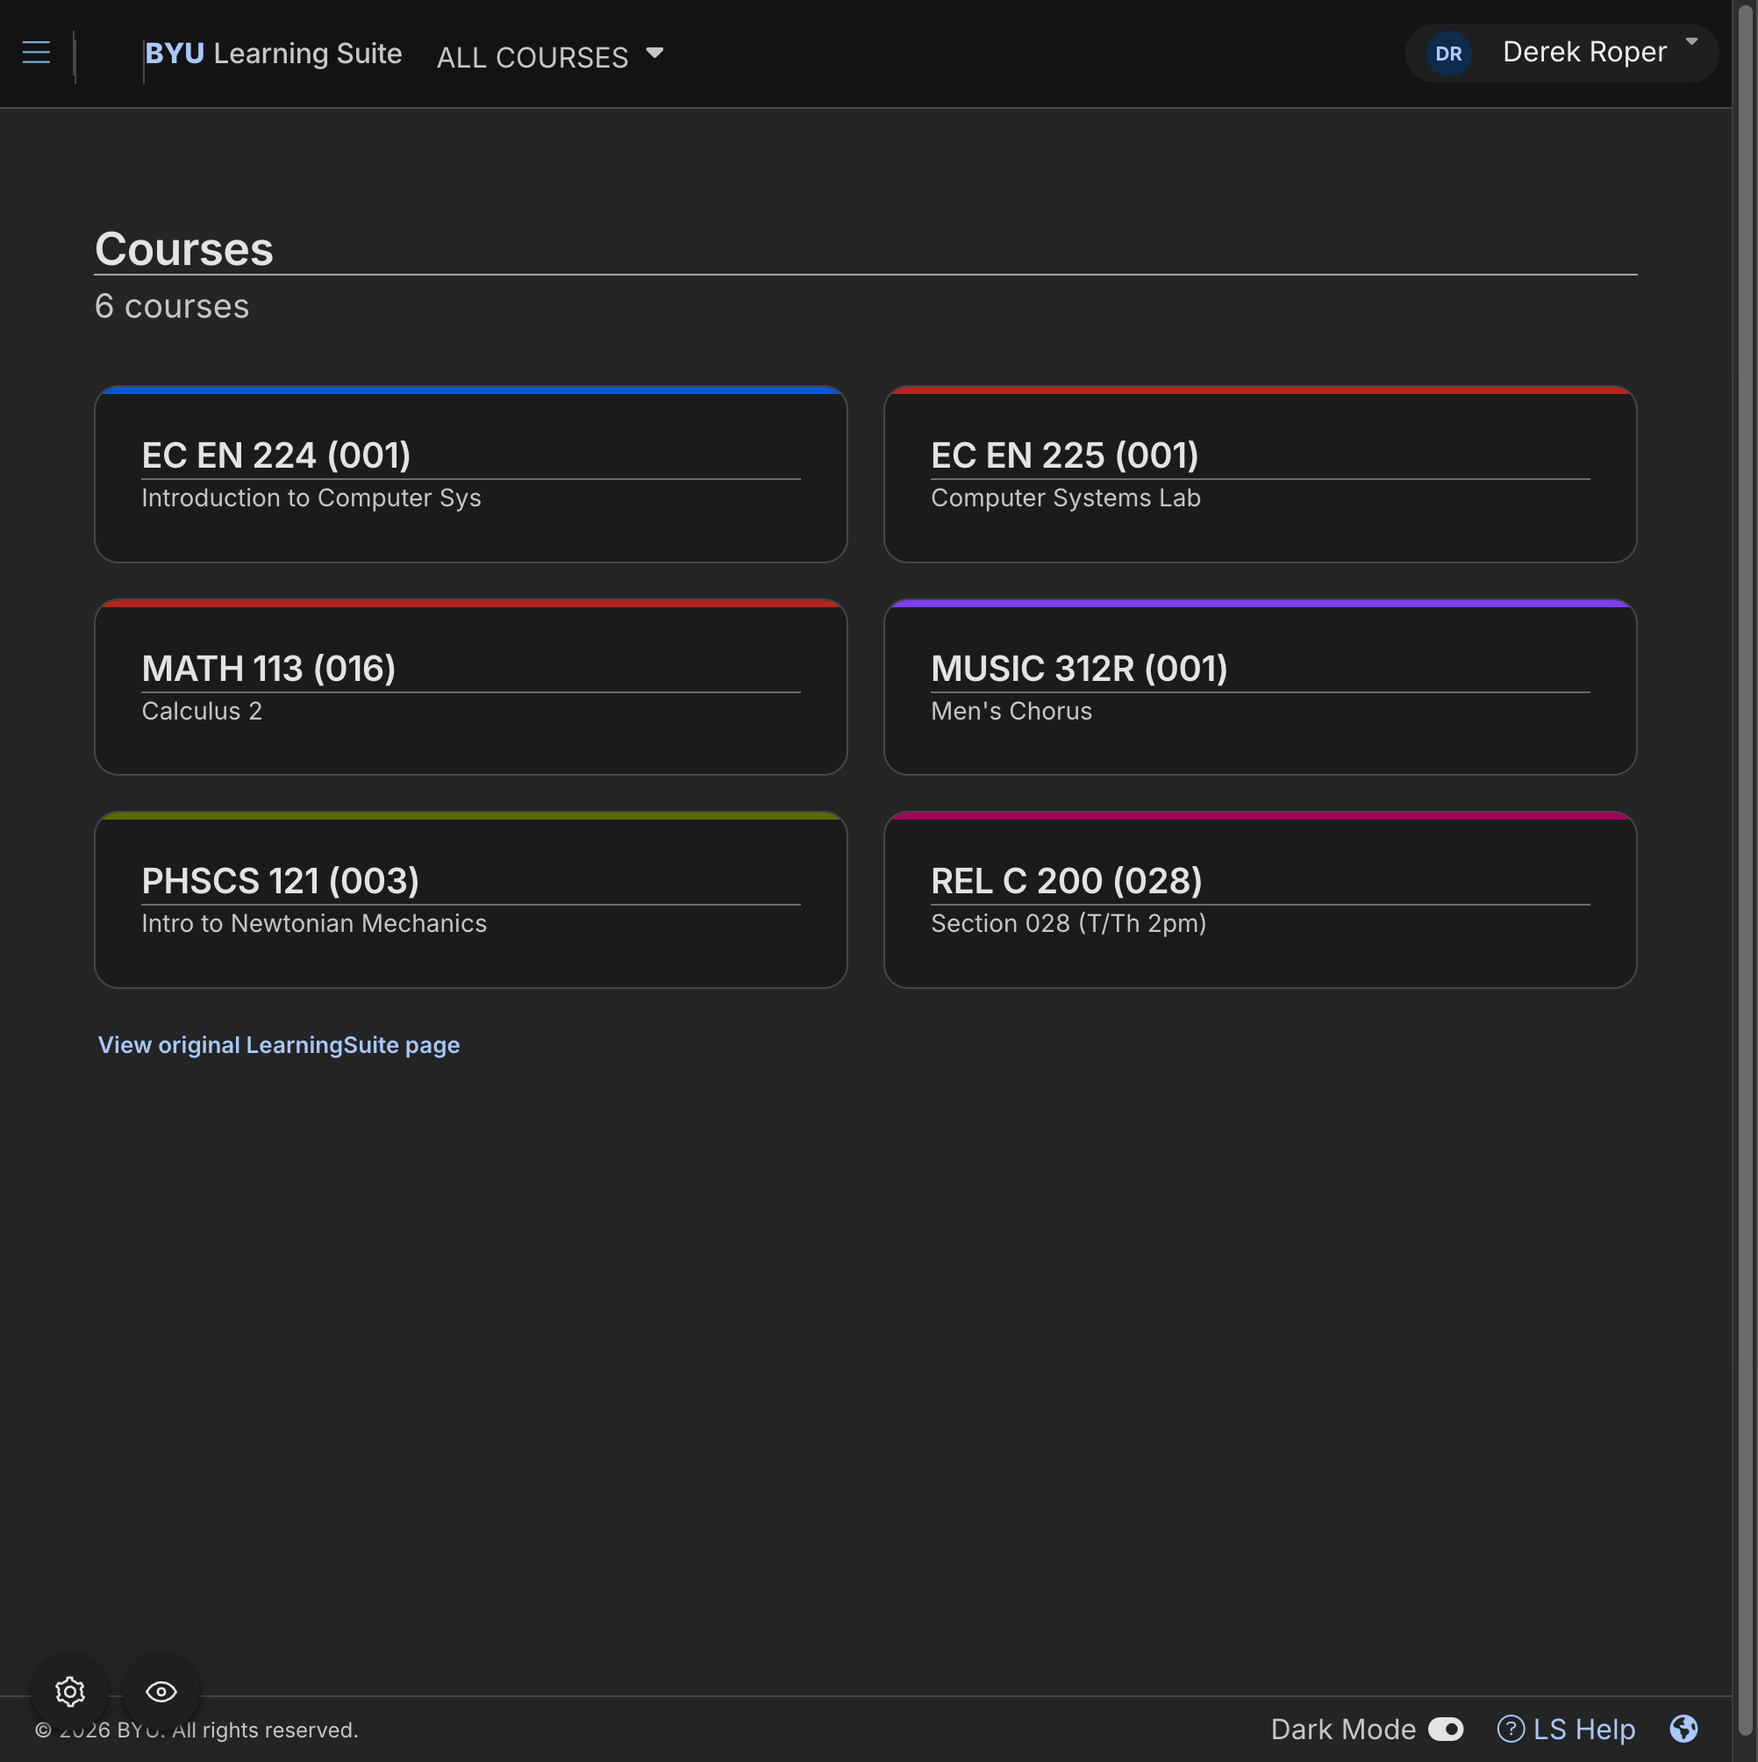
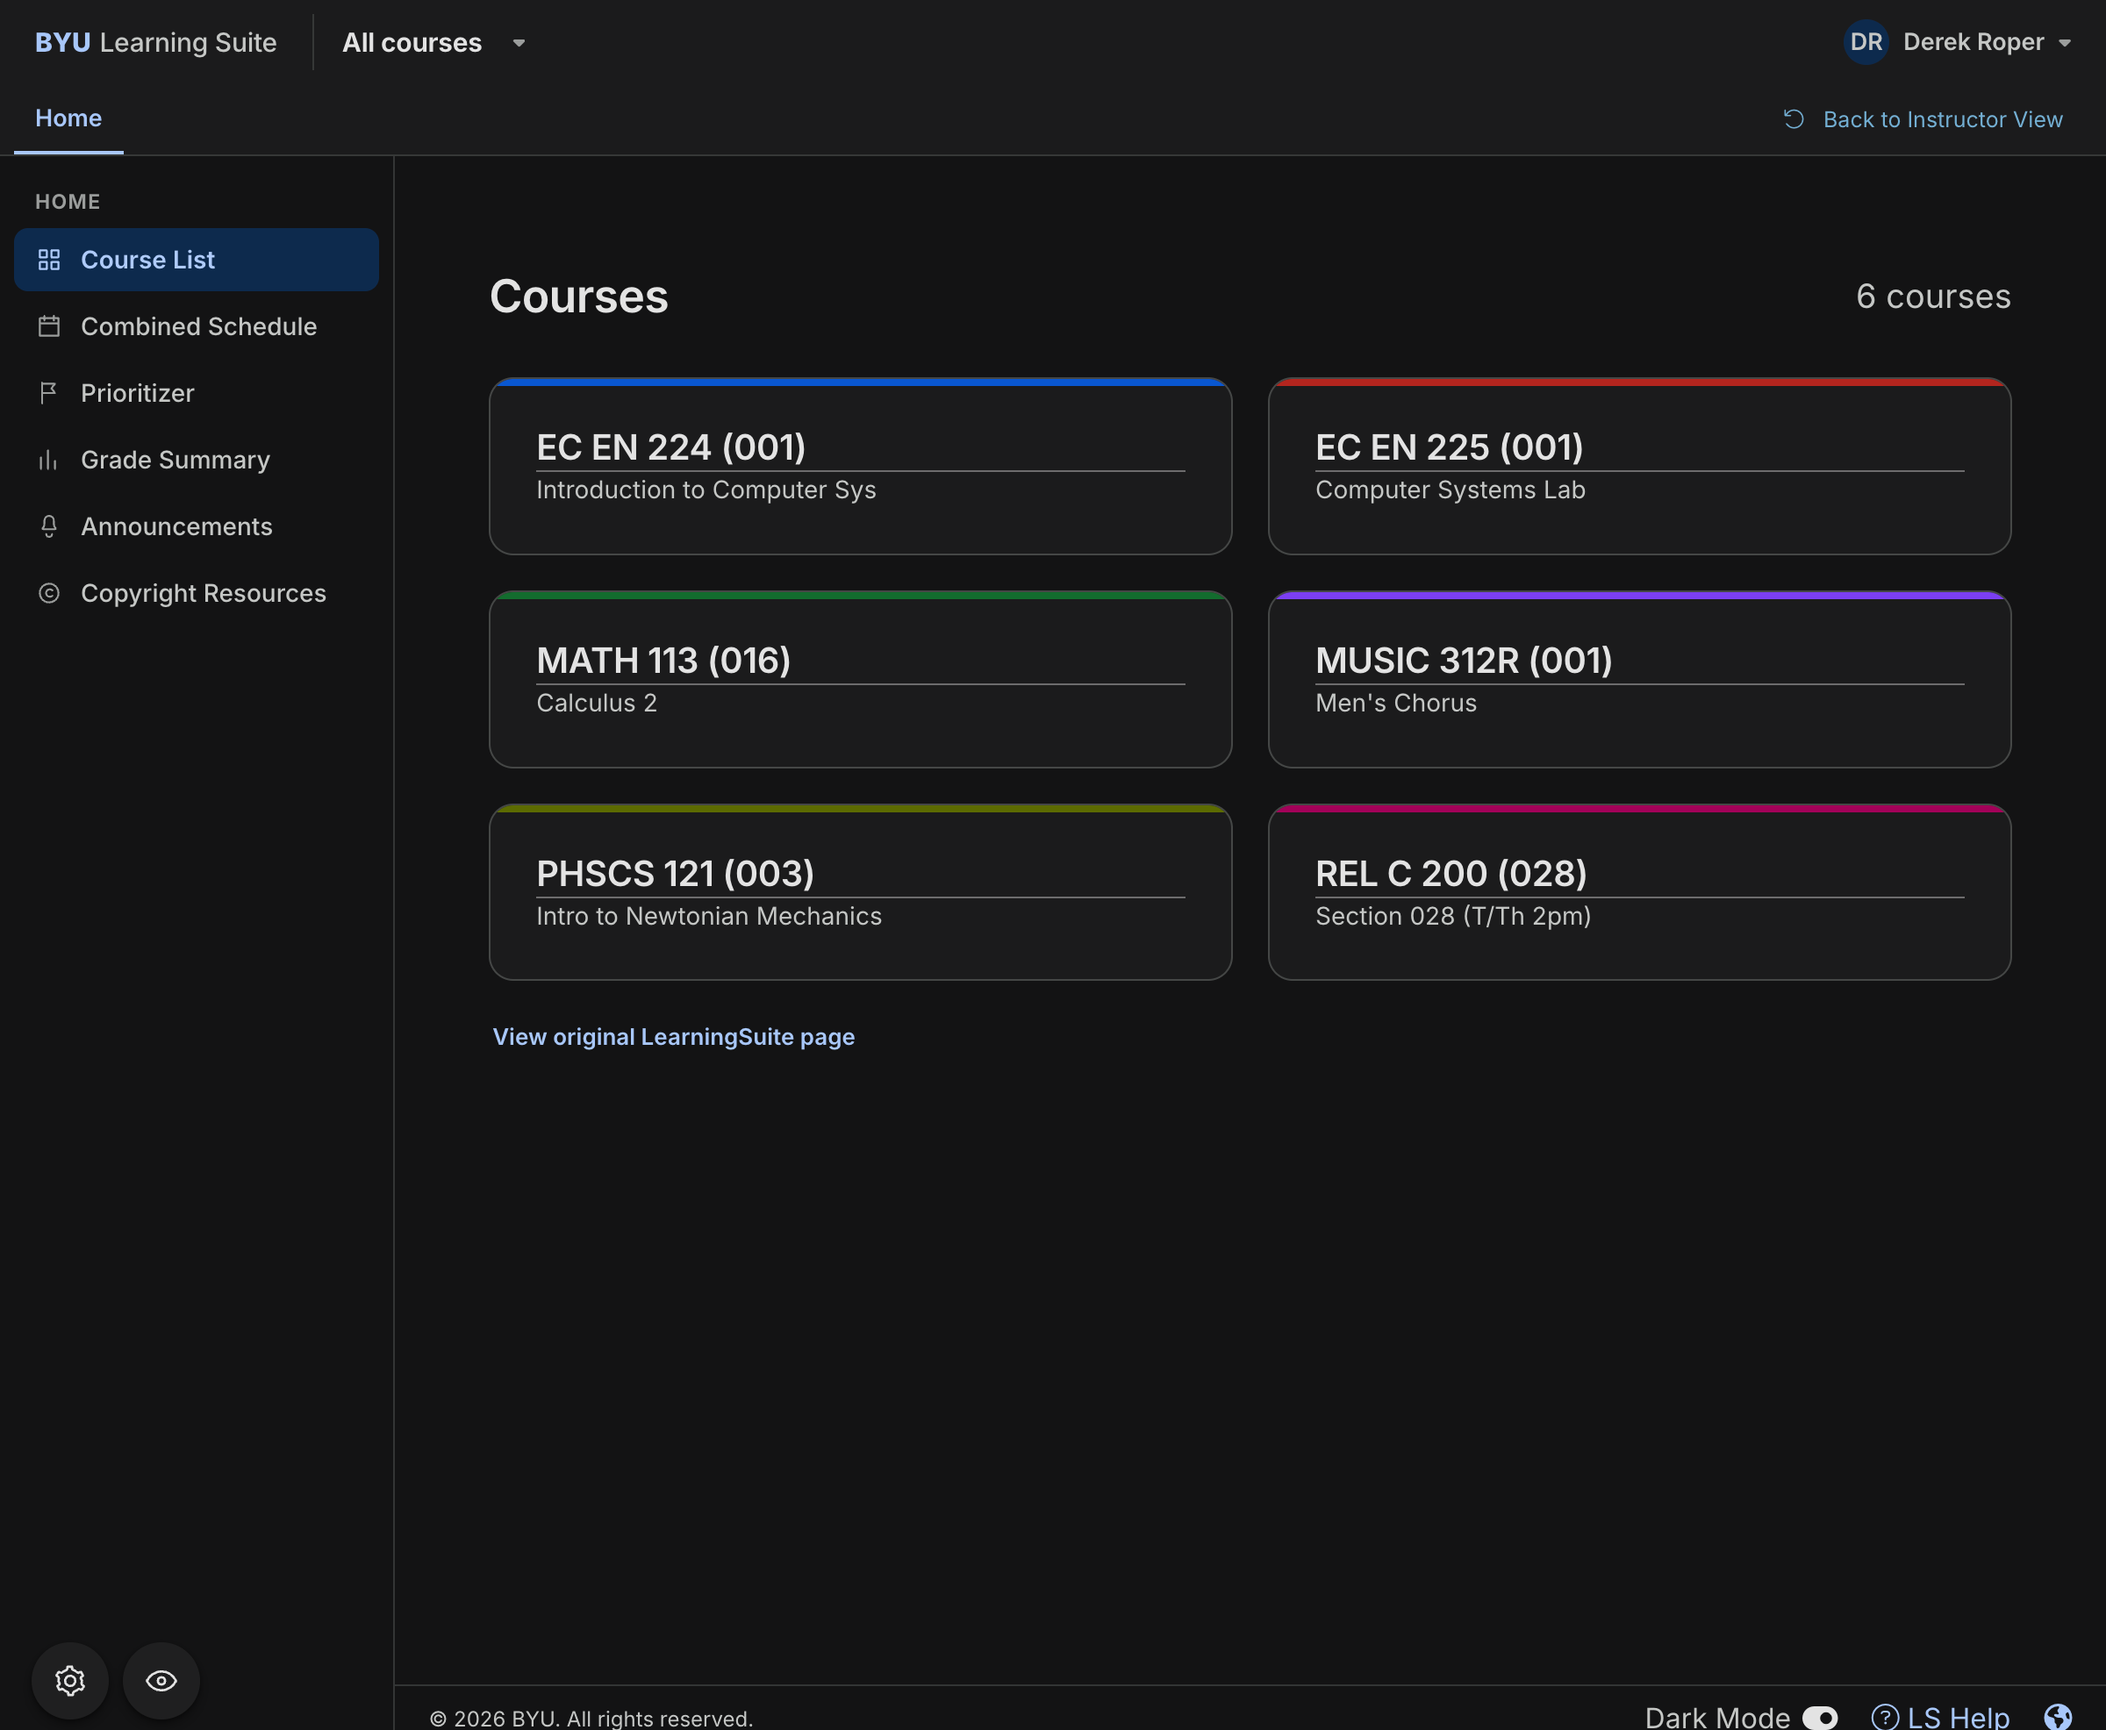
Refresh README screenshots and add MAX gallery

diff --git a/README.md b/README.md
@@ -53,17 +53,29 @@ Install [Tampermonkey](https://www.tampermonkey.net/) or
 
 - Course List becomes a card grid.
 - Assignments become a readable grouped list while preserving the original LearningSuite actions.
-- Combined Schedule becomes a day-grouped agenda.
+- Combined Schedule becomes a day-grouped agenda. Scroll up to load earlier weeks; a **Today** button jumps back.
 - Light mode, dark mode, reduced motion, backgrounds, and Compatibility Mode are available from the in-page settings button.
-- MAX gets a dark-by-default, non-destructive LearningSuite-style reskin across its course chrome, navigation, dashboards, content, schedules, and grades. It uses stable layout and semantic selectors—not course-specific selectors—so it works across instructors and courses.
+- MAX gets a dark-by-default, non-destructive LearningSuite-style reskin across its course chrome, navigation, dashboards, content, schedules, and grades, including dark, restyled Grade Summary charts. It uses stable layout and semantic selectors—not course-specific selectors—so it works across instructors and courses.
 
 Pages not yet redesigned stay in their native LearningSuite form.
 
 ## Gallery
 
+### LearningSuite
+
 | Course List | Grade Summary |
 | --- | --- |
 | ![LearningSuite Reskin Course List, captured in Google Chrome](assets/screenshots/chrome-course-list.png) | ![LearningSuite Reskin Grade Summary, captured in Google Chrome](assets/screenshots/chrome-grade-summary.png) |
+
+### MAX
+
+| Dashboard | Schedule |
+| --- | --- |
+| ![LearningSuite Reskin on the MAX course dashboard, captured in Google Chrome](assets/screenshots/max-dashboard.png) | ![LearningSuite Reskin on the MAX schedule list, captured in Google Chrome](assets/screenshots/max-schedule.png) |
+
+| Grade Summary charts |
+| --- |
+| ![LearningSuite Reskin on the MAX Grade Summary charts, captured in Google Chrome](assets/screenshots/max-grades.png) |
 
 ## Privacy and safety
 
